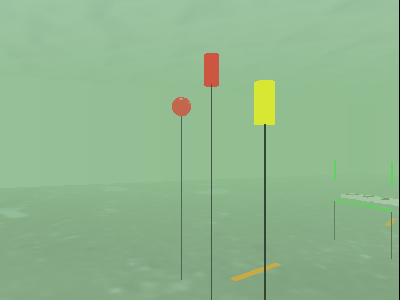
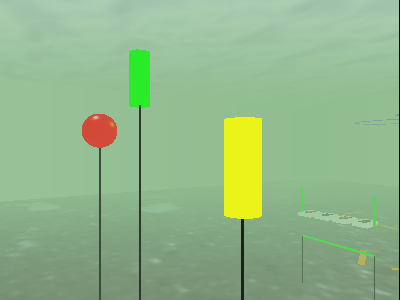
Add vision section to paper and very short control section.

diff --git a/documents/techpaper/2013/software.tex b/documents/techpaper/2013/software.tex
@@ -2,10 +2,9 @@
 
 The submarine's software is aware of the competition objectives, and performs computer vision to
 command the submarine to move through the embedded system.
-The computer vision uses the OpenCV library to help identify objects based on shape and color.
-The video input consists of two webcams, one facing forward and one facing down.
-These cameras are rigidly attached to the AUV, and the AUV must move to change the viewpoint.
-The software also includes a graphical simulator that we can use to test our computer vision algorithms.
+The software is organized so that it is easy to test the core vision and control systems with different
+sources of video input and to command the submarine or the simulator to move.
+The software also includes a graphical simulator that we can use to test our vision and control algorithms.
 
 \subsection{Software Organization}
 \label{gui}
@@ -14,7 +13,7 @@ The software also includes a graphical simulator that we can use to test our com
 \begin{figure}
 \begin{center}
  \includegraphics[height=1.9in]{fig/modules.png}
-\caption{Software module organization.}\label{vision}
+\caption{Software module organization.}\label{modules}
 \end{center}
 \end{figure}
 
@@ -28,7 +27,7 @@ The software also includes a graphical simulator that we can use to test our com
 \end{figure}
 
 The software is broken down into 3
-components (Figure~\ref{vision}): (i) the video input;
+components (Figure~\ref{modules}): (i) the video input;
 (ii) the mission software gives physical commands to move the sub;
 and (iii) the environment that reacts to the physical commands.
 The video input can come from the submarine's webcams, pre-recorded video,
@@ -44,35 +43,51 @@ The manual user interface allows us to act as a passive observer,
 constantly requesting the state of the vehicle,
 or as a controller sending commands to the AUV.
 
+\subsection{Simulator}
+The simulator is a piece of software written in C++ using the OpenGL library. Its purpose is to simulate the competition grounds so the software and vision algorithms can be tested with greater ease. The simulator was extremely useful, as using a pool is both expensive and time consuming.
 
-\vspace{-.1in}
-\subsection{Image Processing Software}
-The image processing software consists of color filters and edge and
-line detection algorithms. The color filters allow us to select
-specific information to only process relevant parts of the images. The
-line processing algorithms use heuristics to form polygons and
-recognize objects such as pipes or boxes, that have a well defined
-appearance. Our algorithms are robust enough to recognize objects even
-if their view changes due to perspective or the presence of debris in
-the water.  The mission software consists of a main loop that acquires
-images, processes them and send commands to the other subsystems on
-one of the two serial ports of the embedded computer (see
-Section~\ref{gui}).
+The simulator contains a physical model of each obstacle in the competition,  as well as a method to track the locations of the two cameras on the sub. OpenGL calls are then used to draw the images that would be seen by the cameras, which are then extracted to the image processing algorithms (Figure~\ref{sim} shows an image that would be seen by the forward camera).
+The simulator can accept commands to move the camera viewpoint, so that we can properly simulate video feedback when the submarine is commanded to move.
 
-The mission is broken down into modular tasks that
-can me chained or tested individually. Tasks proceed by first
-identifying a target for the vehicle to begin pursuit. If the object
-in question is not found, the vehicle rotates on its vertical axis
-(yaw) to make the cameras pan to the right and to the left. If nothing
-is found, then the vehicle proceeds forward in its initial direction.
-Once a target is acquired, the vertical position and lateral positions
-of the vessel are controlled to match the desired coordinates.  The
-vehicle uses a combination of heading relative to its current
-orientation and absolute headings (relative to the magnetic north
-pole) to navigate inside the environment. This alleviates the need to
-get real-time measurements of the heading as the vehicle is
-navigating. A limitation of our vision hardware that we had to address
-is to determine when a task is completed if the view of the target is
-obscured or occluded due to the AUV's proximity (e.g. it is passing
-under the gate). In such situations, for the moment being, we use
-timers to ensure that the vehicle reaches its target location.
+\subsection{Software Control}
+Our control algorithms are run the submarine runs autonomously. The entire mission is broken down into tasks, such as the gate or buoy task,
+which are implemented in separate modules. The control code queries the vision system for circles, lines or rectangles, and translates the
+vision result into a movement command. While the submarine is reacting to a movement command, the video input is ignored to prevent
+overshooting or oscillating the target.
+Each control task can be tested separately.
+
+\section{Vision}
+The machine vision system is defined as all software and hardware which converts images (the input to the system) into numerical data (the output). This data refers primarily to the existence, position, orientation, and color of various objects in the image, such as the starting gate or a colored buoy. This information is handed off to the rest of the software, which acts on it to determine the correct course of action for the submarine. Because the internal representation of an image is simply a large matrix of numbers, the vision system's job can be thought of as filtering this large volume of mostly extraneous data to a few pieces of useful data, which the control system can then analyze.
+
+\subsection{Vision Hardware}
+The hardware for the vision subsystem consists of two cameras and a small netbook. Both cameras are Logitech Webcam 9000 Pro webcams, one of which points forward, and the other of which points down. These cameras were chosen for their price (about \$50 each) and the availability ofLinux driver support. While the cameras are not specifically designed for underwater or low light conditions, they have worked quite well in our pool testing. The netbook used is an HP <Model Number>. This model was chosen for its small size and low cost.
+
+\subsection{Vision Software}
+All of our image processing code is written in C++, using the OpenCV library. A large number of algorithms were tried and discarded during the development of our final flow.  Due to the scope of this document only the final algorithms used will be described.
+
+The image processing flow can be broken up into three distinct parts: image segmentation (separating a 3-channel image into 1-channel pieces based primarily on color), object recognition (classification of each segment as background or target) and property calculation (deriving the object's properties such as location or color). The algorithm used for each step is distinct and will be discussed below.
+
+Image segmentation is performed using OpenCV's implementation of the Watershed algorithm. The algorithm works iteratively from a collection of segmented pixels (seeds) and at each step associates the most similar pixel adjacent to a segmented pixel with that segment. It returns a grayscale image, with different gray levels corresponding to different segments. Each seed pixel has a value associated and two seeds of the same value will contribute to a single segment.
+
+The performance of the Watershed algorithm is heavily dependent on the quality of the seeding. Optimally we want at least one seed for each different object in the image and at least one seed for the background. A single object should not have two different valued seeds, as this will cause two segments to emerge. To seed the algorithm, we take a random sample of pixels from the source image, and run K-Means clustering to cluster the samples based on color similarity. The results of the clustering is a minimum collection of pixels which are representative of the color space of the image. The clustering results used to assign values to the seeds - similarly colored seeds will get the same values (Figures~\ref{seed} and \ref{segment}).
+
+\begin{figure}
+\begin{center}
+ \includegraphics[height=1.9in]{fig/seed_image.jpg}
+\caption{Example image at a test pool, with seed locations overlayed.}\label{seed}
+\end{center}
+\end{figure}
+
+
+\begin{figure}
+\begin{center}
+ \includegraphics[height=1.9in]{fig/segmented_image.jpg}
+\caption{The test image segmented.}\label{segment}
+\end{center}
+\end{figure}
+
+Object recognition is made simple due to the fact that only circles and rectangles need to be recognized for the tasks we are aiming to do. OpenCV can find the minimum enclosing circle and (rotated) box for any segment, and a simple comparison of area, perimeter, and various symmetry properties can be performed to check if the segment is similar to its enclosing shape. For example, a the minimum enclosing circle of a non-circular segment will leave large amounts of blank space, and will therefore have a very different area compared to the segment.
+
+Property calculation is done on a target-by-target basis. For most targets (the buoy, for example), it is  sufficient to know the position and characteristic dimension in pixel space. We can then use these numbers, along with the camera's field-of-view and the physical length to calculate the position and range of the object in real space. For the pipes at the bottom of the pool, the position angle is also needed. All of the pixle properties are easily extracted from the enclosing shape derived by OpenCV. To identify an object's color, we convert the BGR color of the object into HSV, which is more robust against changes in brightness, and use the resulting hue value to determine the color of the object.
+
+Finally, in order for the vision code to return stable results and be robust against noise, we store the objects identified in the current frame begin processed as well as a number of frames prior. We use this to average and filter the numerical information from multiple frames. This allows us some room for error - a single frame with poor segmentation or a stray object will not destroy the system's performance.
